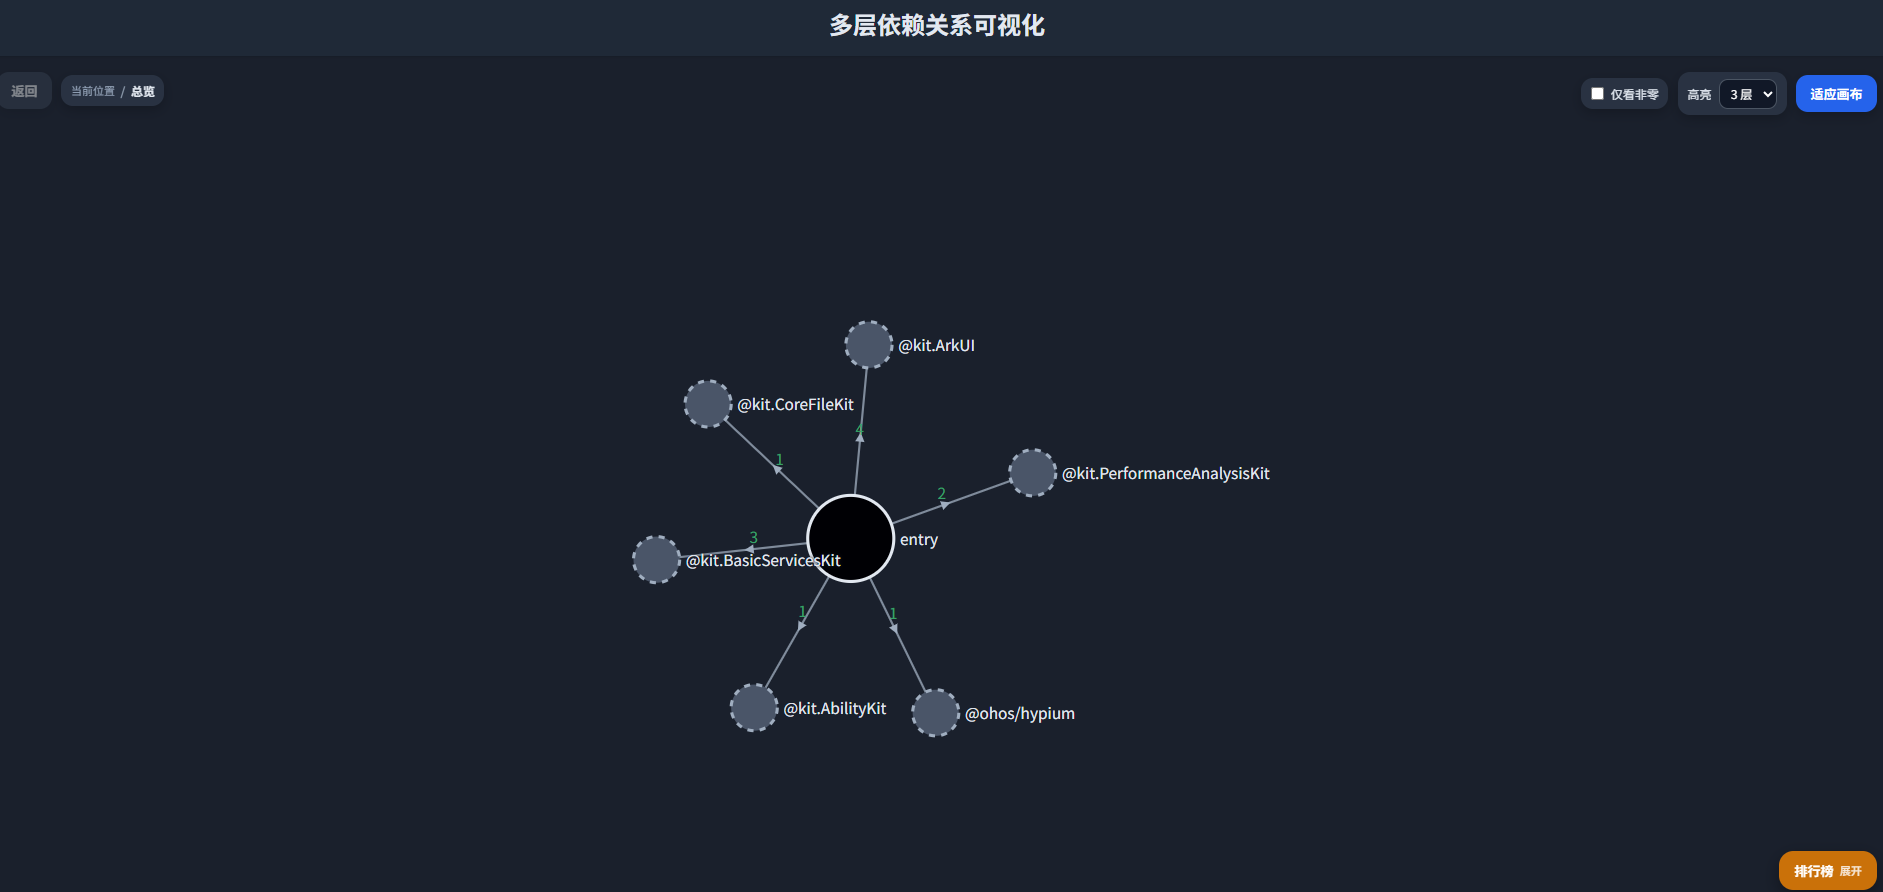
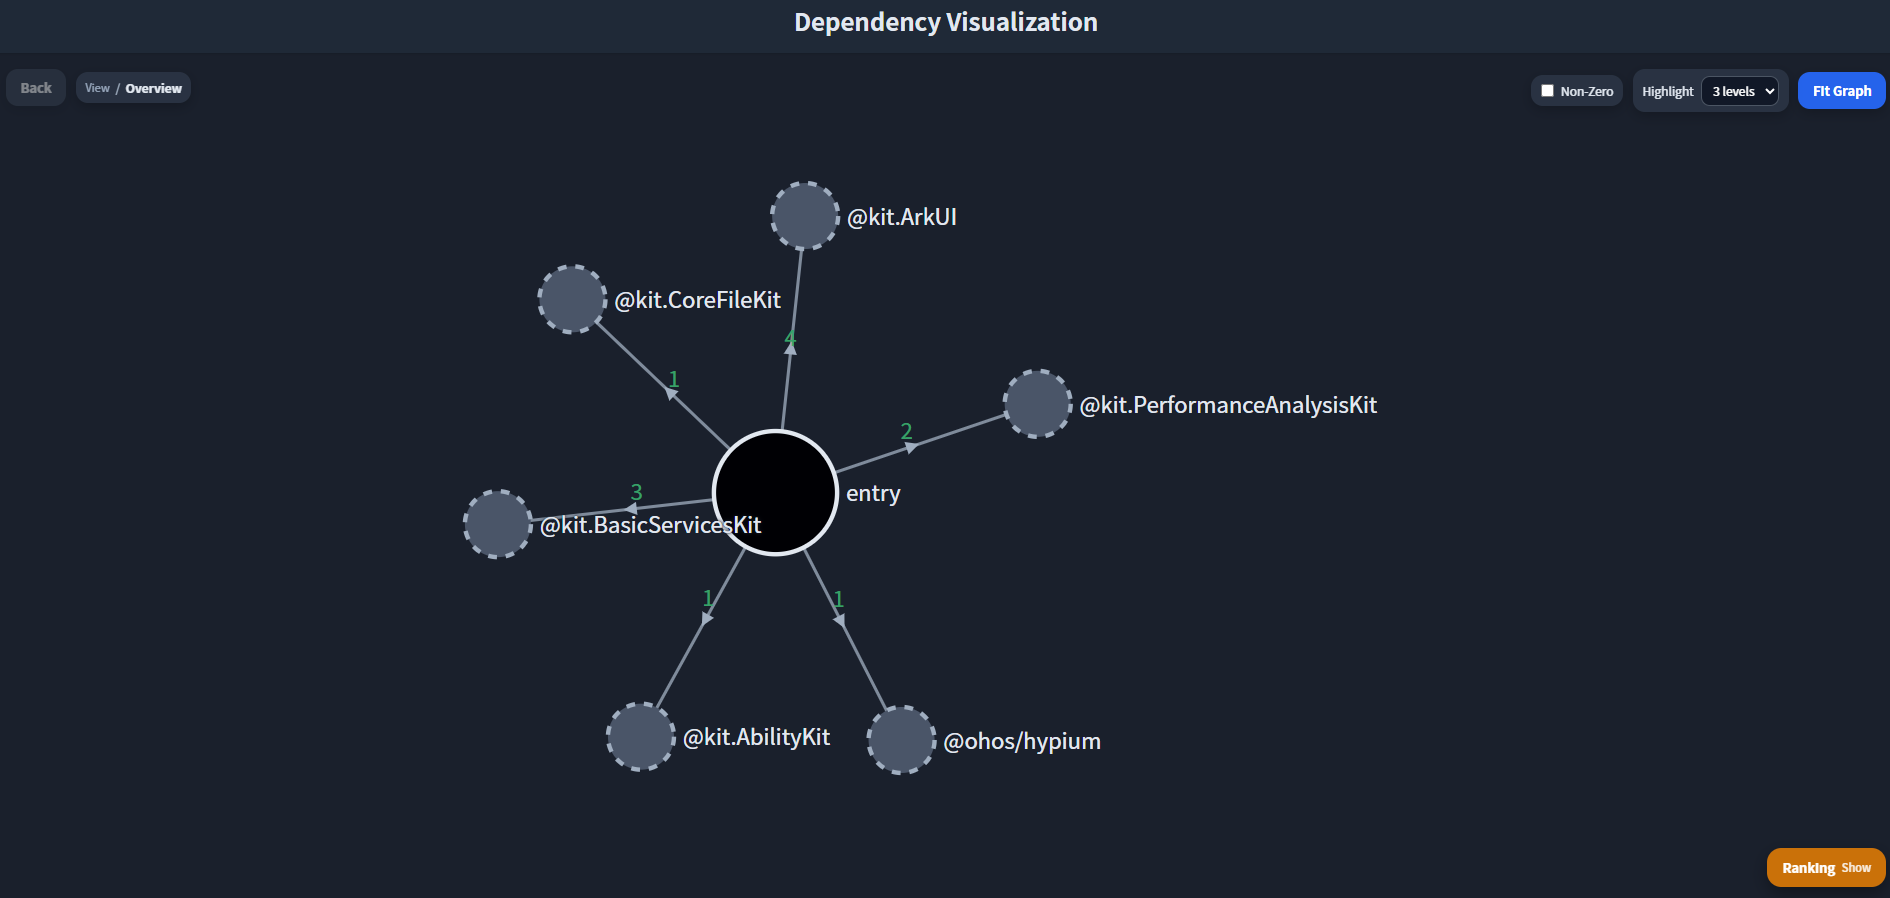
Update the tool usage method

diff --git a/zh-cn/application-dev/quick-start/arkts-migration-visualizer-instructions.md b/zh-cn/application-dev/quick-start/arkts-migration-visualizer-instructions.md
@@ -69,13 +69,13 @@ configs/config.example.json -> configs/config.json
 在仓库根目录执行：
 
 ```bat
-.\scripts\deps\bootstrap.cmd --tool all --verify
+.\src\scripts\deps\bootstrap.cmd --tool all --verify
 ```
 
 如需临时指定镜像源和依赖目录，可以这样执行：
 
 ```bat
-.\scripts\deps\bootstrap.cmd --tool all --verify ^
+.\src\scripts\deps\bootstrap.cmd --tool all --verify ^
   --npm-registry https://<your-npm-mirror>/ ^
   --pip-index-url https://<your-pypi-mirror>/simple/ ^
   --deps-root C:\OH\.amv-deps\migration_visualizer
@@ -85,7 +85,7 @@ configs/config.example.json -> configs/config.json
 
 - `bootstrap.cmd`默认读取`configs/config.json`中的`deps_root`。
 - 也可以通过`--deps-root`临时覆盖，并且命令行参数优先级高于配置文件。
-- `bootstrap.cmd`、`run_all.py`和`scripts/collect/perf_runner.py`都支持`--deps-root`。
+- `bootstrap.cmd`和`run_all.py`都支持`--deps-root`。
 - 如果希望整个流程都使用同一套临时依赖目录，需要在后续命令中继续传入相同的`--deps-root`。
 
 ## 一键运行
@@ -95,19 +95,19 @@ configs/config.example.json -> configs/config.json
 执行全部testcase：
 
 ```bat
-python run_all.py -t ".*"
+python src\run_all.py -t ".*"
 ```
 
 指定testcase：
 
 ```bat
-python run_all.py -t ".*FrameAndPropertyAnimation_0010"
+python src\run_all.py -t ".*testcase"
 ```
 
 临时覆盖依赖目录：
 
 ```bat
-python run_all.py -t ".*" --deps-root C:\OH\.amv-deps\migration_visualizer
+python src\run_all.py -t ".*" --deps-root C:\OH\.amv-deps\migration_visualizer
 ```
 
 命令执行后会依次完成以下步骤：
@@ -127,13 +127,7 @@ python run_all.py -t ".*" --deps-root C:\OH\.amv-deps\migration_visualizer
 如果不想执行固定testcase，而是希望在设备上手动操作目标应用，可以使用手动监听模式：
 
 ```bat
-python run_all.py --manual-package com.example.xxx --manual-duration 60
-```
-
-必要时也可以显式指定启动ability：
-
-```bat
-python run_all.py --manual-package com.example.xxx --manual-ability EntryAbility --manual-duration 60
+python src\run_all.py --manual-package com.example.xxx --manual-duration 60
 ```
 
 手动监听模式的特点如下：
@@ -141,64 +135,6 @@ python run_all.py --manual-package com.example.xxx --manual-ability EntryAbility
 - 仍然走`Homecheck + Hapray`的完整采集链路。
 - 当应用启动且控制台出现`Starting manual workload collection`日志后，即可在设备上手动操作目标应用。
 - 采集结束后同样会生成相同的四份输入文件。
-
-## 分步使用
-
-### 仅执行采集
-
-自动化testcase模式：
-
-```bat
-python scripts/collect/perf_runner.py ".*"
-```
-
-手动监听模式：
-
-```bat
-python scripts/collect/perf_runner.py --manual-package com.example.xxx --manual-duration 60
-```
-
-显式指定ability：
-
-```bat
-python scripts/collect/perf_runner.py --manual-package com.example.xxx --manual-ability EntryAbility --manual-duration 60
-```
-
-临时覆盖依赖目录：
-
-```bat
-python scripts/collect/perf_runner.py ".*" --deps-root C:\OH\.amv-deps\migration_visualizer
-```
-
-采集完成后，会在`artifacts/test_run_YYYYMMDD_HHMMSS/`目录下生成：
-
-```text
-fileDepGraph.json
-moduleDepGraph.json
-hapray_report.json
-component_timings.json
-```
-
-### 汇总可视化数据
-
-```bat
-python scripts/build/integrate_dep.py artifacts\test_run_YYYYMMDD_HHMMSS --output web\hierarchical_integrated_data.json
-```
-
-默认情况下，还会在输入目录下额外生成一组调试用JSON文件；如果不需要这些调试文件，可以追加`--no-debug`。
-
-### 启动依赖关系可视化页面
-
-```bat
-cd web
-python -m http.server 8000
-```
-
-浏览器访问：
-
-```text
-http://localhost:8000/
-```
 
 ## `run_all.py`常用参数
 
@@ -217,9 +153,9 @@ http://localhost:8000/
 示例：
 
 ```bat
-python run_all.py --skip-collect
-python run_all.py --skip-collect --run-dir artifacts\test_run_20260406_124328
-python run_all.py -t ".*FrameAndPropertyAnimation_0010" --port 8010
+python src\run_all.py --skip-collect
+python src\run_all.py --skip-collect --run-dir artifacts\test_run_YYYYMMDD_HHMMSS
+python src\run_all.py -t ".*testcase" --port 8010
 ```
 
 ## 依赖关系可视化页面说明
@@ -232,5 +168,5 @@ python run_all.py -t ".*FrameAndPropertyAnimation_0010" --port 8010
 - 点击HAR节点可进入文件依赖图。
 - 点击空白处或按`Esc`可清除当前固定详情。
 - 详情面板会显示节点名称、完整路径和耗时。
-- `Non-zero only`会隐藏零耗时节点，并在隐藏后自动重连路径。
+- `Non-zero`会隐藏零耗时节点，并在隐藏后自动重连路径。
 - 排行榜支持点击跳转并高亮对应节点。